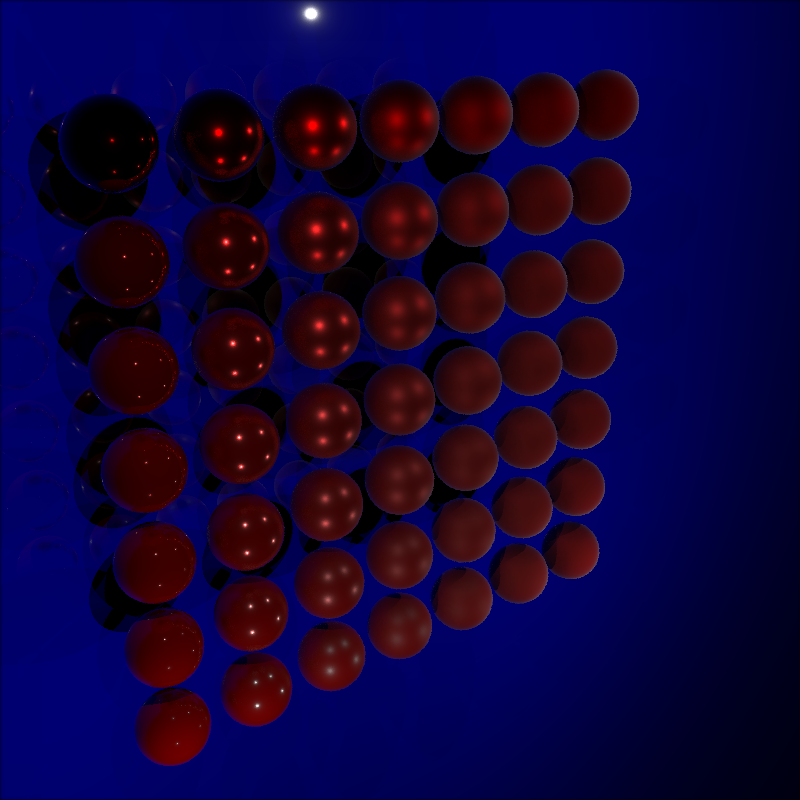
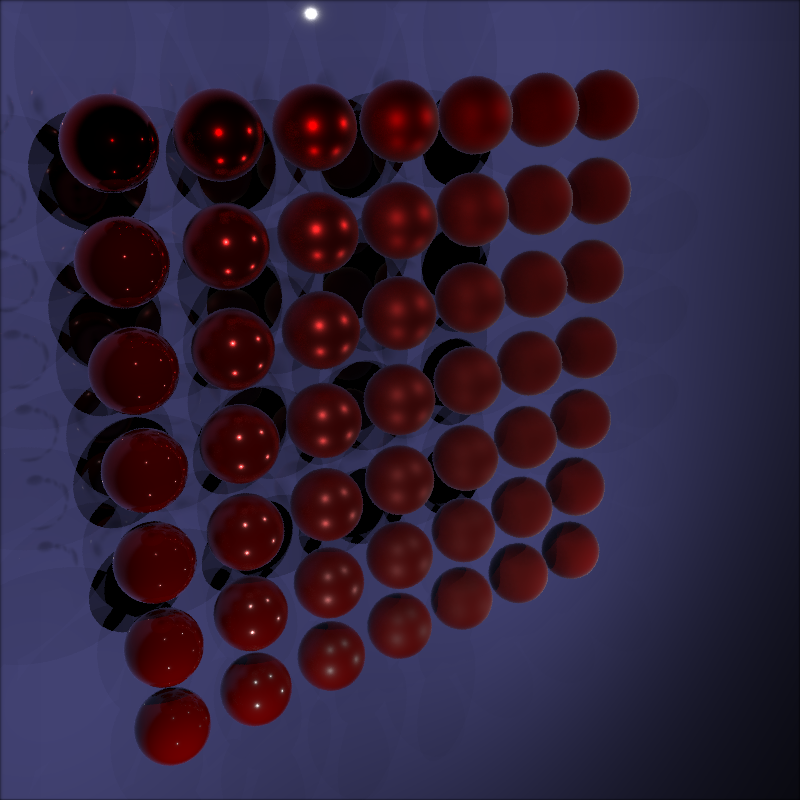
Lighten physical scene

diff --git a/renders/renders.md b/renders/renders.md
@@ -22,7 +22,7 @@ _spp = samples per pixel_
 
 #### `scenes/physical.json`
 
-800 x 800 pixels (4 spp), 50 primitives, 542,987,729 rays, 53.991s on i7 8650U
+800 x 800 pixels (4 spp), 50 primitives, 542,941,155 rays, 54.406s on i7 8650U
 
 ![physical.json](./physical.png)
 
